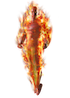
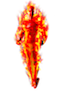
Ex5: added background, testing eating stuff

Changed region(s): [[0.2154, 0.022, 0.7385, 0.989]]

diff --git a/Exercises/exercice5/js/Predator.js b/Exercises/exercice5/js/Predator.js
@@ -24,7 +24,7 @@ class Predator {
     // Health properties
     this.maxHealth = radius;
     this.health = this.maxHealth; // Must be AFTER defining this.maxHealth
-    this.healthLossPerMove = 0.1;
+    this.healthLossPerMove = 1;
     this.healthGainPerEat = 1;
     // Display properties
 
@@ -37,6 +37,8 @@ class Predator {
     this.sprintKey = sprintKey;
 
     this.predatorImage = predatorImage; //ensure that property for specific constction
+
+    this.preyEaten = 0;
   }
 
   // handleInput
@@ -120,12 +122,15 @@ class Predator {
     // Check if the distance is less than their two radii (an overlap)
     if (d < this.radius + prey.radius) {
       // Increase predator health and constrain it to its possible range
+      console.log("got a prey");
       this.health += this.healthGainPerEat;
       this.health = constrain(this.health, 0, this.maxHealth);
       // Decrease prey health by the same amount
       prey.health -= this.healthGainPerEat;
       // Check if the prey died and reset it if so
       if (prey.health < 0) {
+        console.log("ate one enemy");
+        this.preyEaten +=1;
         prey.reset();
       }
     }
@@ -135,11 +140,18 @@ class Predator {
   //
   // Draw the predator as an ellipse on the canvas
   // with a radius the same size as its current health.
+
   display() {
     push();
     noStroke();
     this.radius = this.health;
     image(this.predatorImage,this.x, this.y, this.radius * 2);
+    pop();
+    push();
+    textAlign(CENTER, CENTER);
+    textSize(19);
+    fill(255);
+    text(this.preyEaten, this.x, this.y-height/20);
     pop();
   }
 }

diff --git a/Exercises/exercice5/js/script.js b/Exercises/exercice5/js/script.js
@@ -26,7 +26,7 @@ let preyImage2;
 let torchImage;
 
 function preload(){
-backgroundImage = loadImage("assets/images/background.jpeg");
+backgroundImage = loadImage("assets/images/sand.jpeg");
  predatorImage1 = loadImage("assets/images/ostrich.png");
  predatorImage2 = loadImage("assets/images/flamingo.png");
 
@@ -43,9 +43,9 @@ function setup() {
   createCanvas(windowWidth, windowHeight);
   ostrich = new Predator(width/2-width/3, height/2, 5, 10, predatorImage1, 38, 40, 37, 39, 13);
   flamingo = new Predator (width/2+width/3, height/2, 5, 10, predatorImage2, 87, 83, 65, 68, SHIFT);
-  man1 = new Prey(100, 100, 10, color(255, 100, 10), 50);
-  man2 = new Prey(100, 100, 8, color(255, 255, 255), 60);
-  torch = new Prey(100, 100, 20, color(255, 255, 0), 10);
+  man1 = new Prey(100, 100, 7,20,  preyImage1);
+  man2 = new Prey(100, 100, 7, 30, preyImage2);
+  torch = new Prey(100, 100, 7, 35, torchImage);
 }
 
 // draw()

diff --git a/Exercises/exercice5/js/Prey.js b/Exercises/exercice5/js/Prey.js
@@ -10,7 +10,7 @@ class Prey {
   //
   // Sets the initial values for the Predator's properties
   // Either sets default values or uses the arguments provided
-  constructor(x, y, speed, radius) {
+  constructor(x, y, speed, radius, preyImage) {
     // Position
     this.x = x;
     this.y = y;
@@ -24,11 +24,13 @@ class Prey {
     // Health properties
     this.maxHealth = radius;
     this.health = this.maxHealth; // Must be AFTER defining this.maxHealth
+  
     // Display properties
 
     this.radius = this.health;
 
-    humanImage = loadImage("assets/images/man1");
+    this.preyImage = preyImage;
+
 
   }
 
@@ -80,8 +82,7 @@ class Prey {
     noStroke();
 
     this.width = this.health;
-    image(humanImage, this.x, this.y);
-
+    image(this.preyImage,this.x, this.y, this.radius * 2);
 
   }
 
